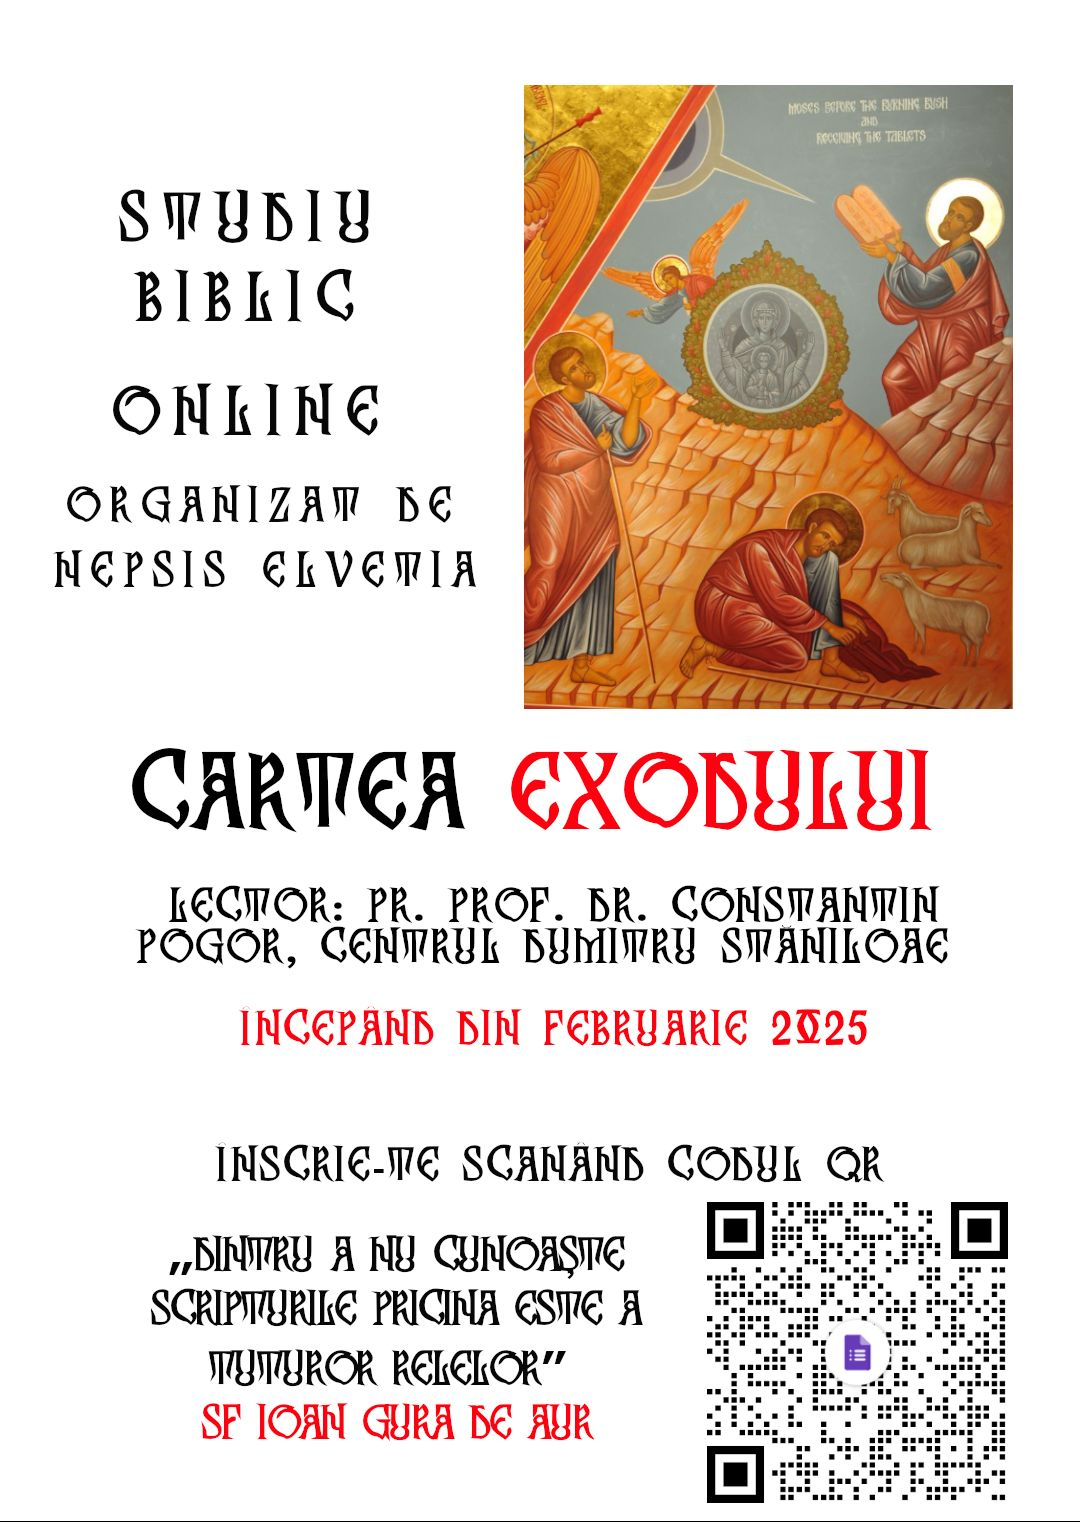
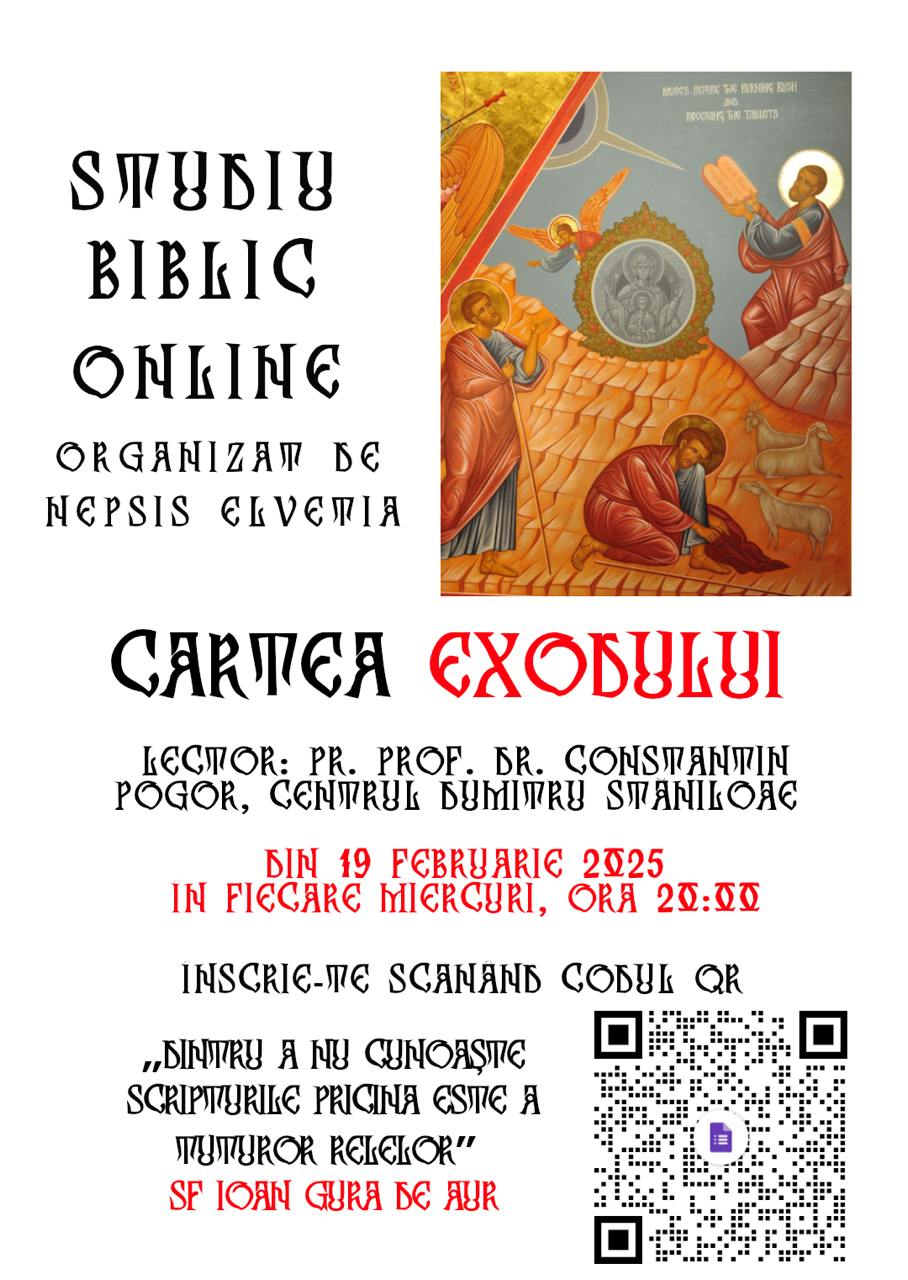
update Studiu Biblic 2025 schedule

Changed region(s): [[0.0308, 0.0938, 0.4626, 0.4062], [0.185, 0.6562, 0.8326, 0.7188], [0.2775, 0.9062, 0.3084, 0.9375]]

diff --git a/index.html b/index.html
@@ -121,7 +121,8 @@
 						<br/><br/>
 						<ul>
 							<li>Vom avea aproximativ 15 întâlniri, desfășurate online, pe platforma Zoom.</li>
-							<li>Sesiunile vor începe în februarie 2025. Orarul exact va fi anunțat în curând.</li>
+							<li>Sesiunile vor începe în 19 februarie 2025 la ora 20:00 și sunt înregistrate iar participantii le pot viziona oricând daca se întâmplă să nu poată participa la curs. 
+							</li>
 							<li>Taxa de participare este de 30 de EURO.</li>
 						</ul>
 						<br/><br/>
